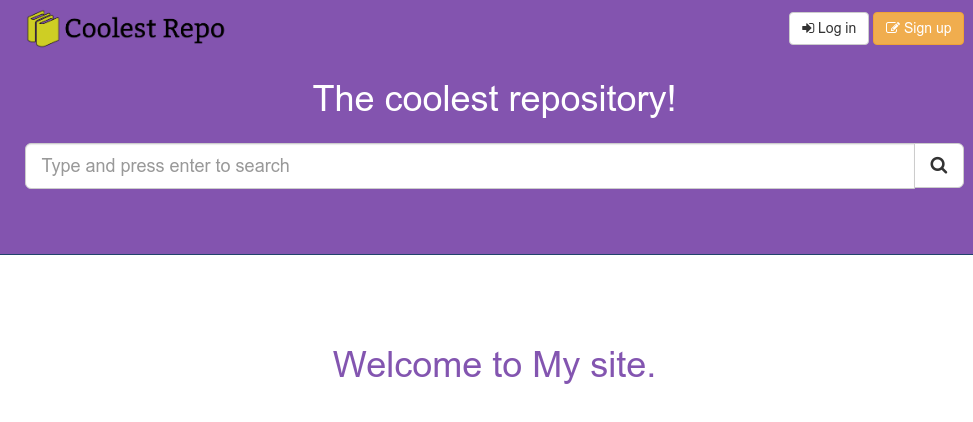
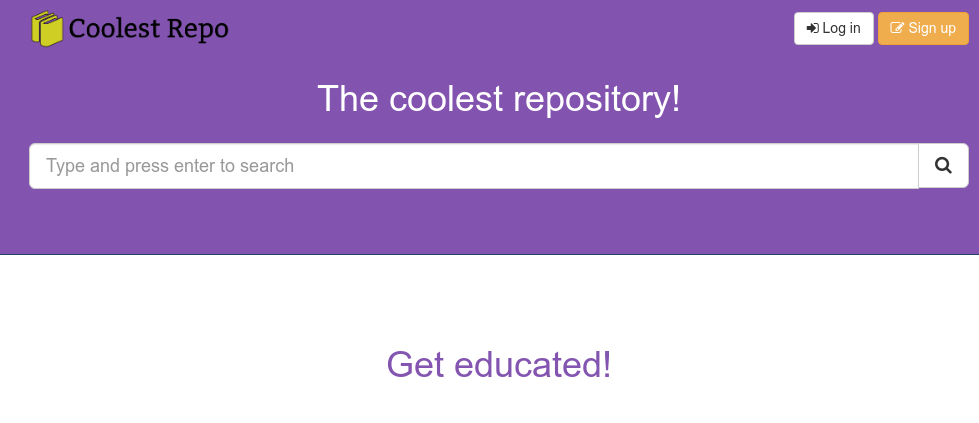
exercises: 05 break and fix E2E tests

diff --git a/05-customizing-invenio/solution/my-site/my_site/records/templates/records/record.html b/05-customizing-invenio/solution/my-site/my_site/records/templates/records/record.html
@@ -1,0 +1,48 @@
+{# -*- coding: utf-8 -*-
+
+    Copyright (C) 2019 CERN.
+
+    My site is free software; you can redistribute it and/or modify it under
+  the terms of the MIT License; see LICENSE file for more details.
+#}
+
+{%- extends config.RECORDS_UI_BASE_TEMPLATE %}
+
+{%- macro record_content(data) %}
+  {% for key, value in data.items() recursive %}
+    <li class="list-group-item">
+    {% if value is mapping %}
+        <strong>{{ key }}:</strong>
+        <ul class="list-group">{{ loop(value.items()) }}</ul>
+    {% elif value is iterable and value is not string %}
+        <strong>{{ key }}:</strong>
+        <ol>
+        {% for item in value %}
+          <li>
+          {% if item is mapping %}
+            <ul class="list-group">
+              {{ record_content(item) }}
+            </ul>
+          {% else %}
+            {{ item }}
+          {% endif %}
+          </li>
+        {% endfor %}
+        </ol>
+    {% else %}
+      <strong>{{ key }}:</strong> {{ value }}
+    {% endif %}
+    </li>
+  {% endfor %}
+{%- endmacro %}
+
+{%- block page_body %}
+<div class="container">
+  <h2>{{record.title}}</h2>
+  <strong>Authors</strong>
+  {% for author in record.contributors %}
+  <em>{{ author.name }}</em>;
+  {% endfor %}
+</div>
+{%- endblock %}
+

diff --git a/05-customizing-invenio/solution/my-site/my_site/theme/templates/my_site/frontpage.html b/05-customizing-invenio/solution/my-site/my_site/theme/templates/my_site/frontpage.html
@@ -1,0 +1,16 @@
+{#
+  Copyright (C) 2019 CERN.
+
+  My site is free software; you can redistribute it and/or modify it under
+  the terms of the MIT License; see LICENSE file for more details.
+#}
+{%- extends "invenio_theme/frontpage.html" %}
+
+{%- block page_body %}
+<div class="container marketing">
+  <div class="row">
+    <div class="col-lg-12">
+    <h1 class="text-center">Get educated!</h1>
+  </div>
+</div>
+{%- endblock %}

diff --git a/05-customizing-invenio/solution/tests/e2e/test_front_page.py b/05-customizing-invenio/solution/tests/e2e/test_front_page.py
@@ -1,0 +1,10 @@
+"""E2E test of the front page."""
+
+from flask import url_for
+
+
+def test_frontpage(live_server, browser):
+    """Test retrieval of front page."""
+    browser.get(url_for('invenio_theme_frontpage.index', _external=True))
+    assert "Get educated!" == browser.find_element_by_class_name(
+        'marketing').find_element_by_tag_name('h1').text

diff --git a/05-customizing-invenio/README.md b/05-customizing-invenio/README.md
@@ -7,15 +7,15 @@ results for records are displayed and the display page for every record.
 ### Table of Contents
 
 - [Step 1: Run the development server](#step-1-run-the-development-server)
-- [Step 2: Change the frontpage title](#step-2-change-the-frontpage-title)
+- [Step 2: Change the frontpage titles](#step-2-change-the-frontpage-titles)
 - [Step 3: Change the site logo](#step-3-change-the-site-logo)
 - [Step 4: Change the theme color](#step-4-change-the-theme-color)
 - [Step 5: Change how record search results are displayed](#step-5-change-how-record-search-results-are-displayed)
-- [Step 6: Change how the record page](#step-6-change-how-the-record-page)
+- [Step 6: Change the record page](#step-6-change-the-record-page)
 
 ## Step 1: Run the development server
 
-If your development server is not running you can type:
+If your development server is not running you can run:
 
 ```bash
 $ cd ~/src/my-site
@@ -23,7 +23,7 @@ $ docker-compose up -d
 $ ./scripts/server
 ```
 
-## Step 2: Change the frontpage title
+## Step 2: Change the frontpage titles
 
 Although the default look of the instance looks fine, we can do better! Let's
 start small by changing some text on the frontpage. To do so we have to edit
@@ -43,7 +43,24 @@ THEME_FRONTPAGE = True
 THEME_FRONTPAGE_TEMPLATE = 'my_site/frontpage.html'
 ```
 
-If you now go to <https://localhost:5000/> you will see the changed title:
+Let's also change the "Welcome to My site." text to something motivational, by
+editing `my_site/theme/templates/my_site/frontpage.html`:
+
+```diff
+{%- extends "invenio_theme/frontpage.html" %}
+
+{%- block page_body %}
+<div class="container marketing">
+  <div class="row">
+    <div class="col-lg-12">
+-   <h1 class="text-center">Welcome to My site.</h1>
++   <h1 class="text-center">Get educated!</h1>
+  </div>
+</div>
+{%- endblock %}
+```
+
+If you now go to <https://localhost:5000/> you will see the changed titles:
 
 ![](./images/frontpage-title.png)
 
@@ -159,7 +176,7 @@ And now, if we refresh we'll see that our search results display differently:
 
 ![](./images/search-new.png)
 
-## Step 6: Change how the record page
+## Step 6: Change the record page
 
 If you actually click on one of the search results you will be redirected to
 the record's page:
